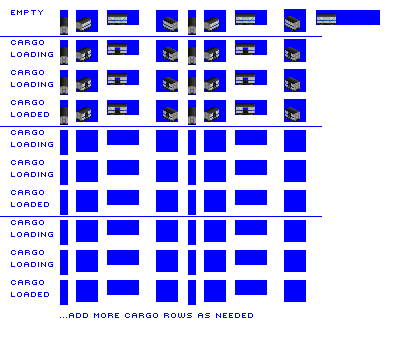
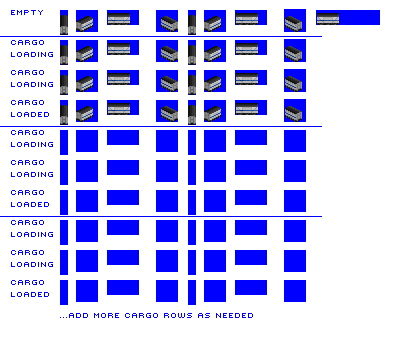
Change: update reefer and open cars

diff --git a/src/vehicles/open_cars.py b/src/vehicles/open_cars.py
@@ -69,9 +69,9 @@ consist = WagonConsist(type_config = type_config,
 
 consist.add_unit(Wagon(type_config = type_config,
                         consist = consist,
-                        capacity_freight = 40,
+                        capacity_freight = 35,
                         weight = 15,
-                        vehicle_length = 8,
+                        vehicle_length = 6,
                         loading_speed = 20))
 
 consist.add_model_variant(intro_date=0,

diff --git a/src/vehicles/reefer_cars.py b/src/vehicles/reefer_cars.py
@@ -34,7 +34,7 @@ consist.add_unit(Wagon(type_config = type_config,
                         consist = consist,
                         capacity_freight = 25,
                         weight = 14,
-                        vehicle_length = 5,
+                        vehicle_length = 6,
                         loading_speed = 20))
 
 consist.add_model_variant(intro_date=0,
